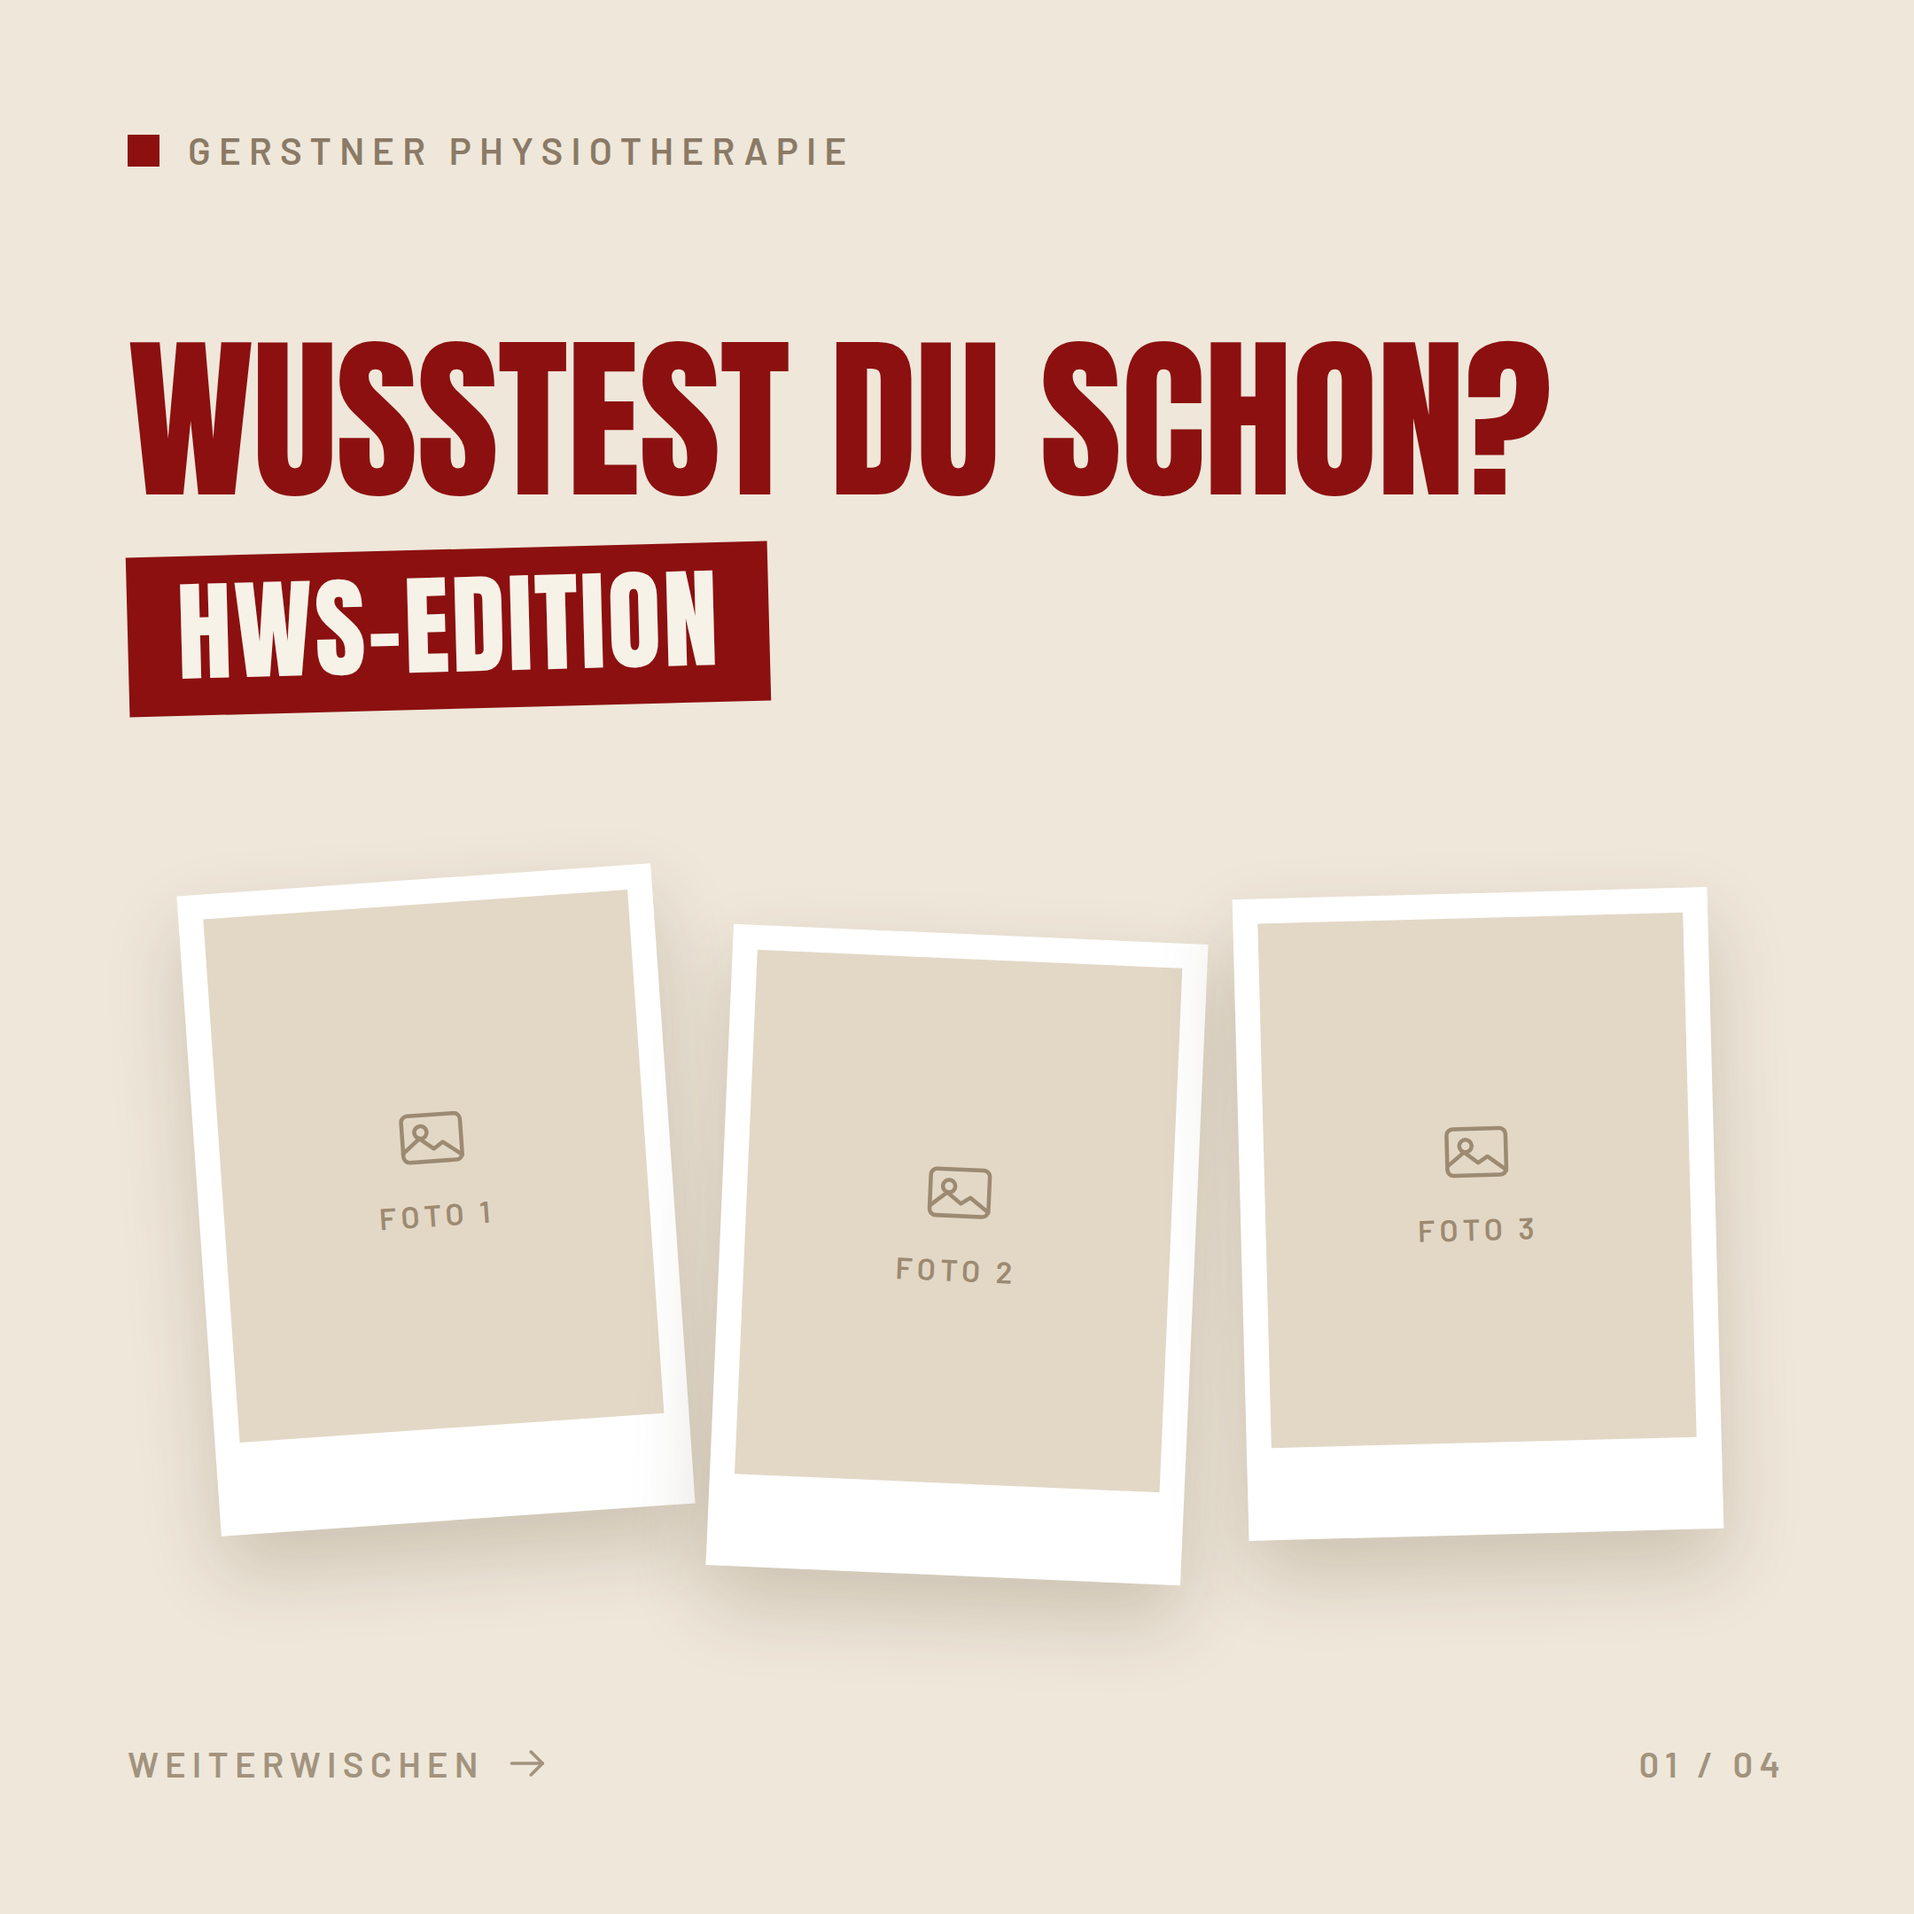
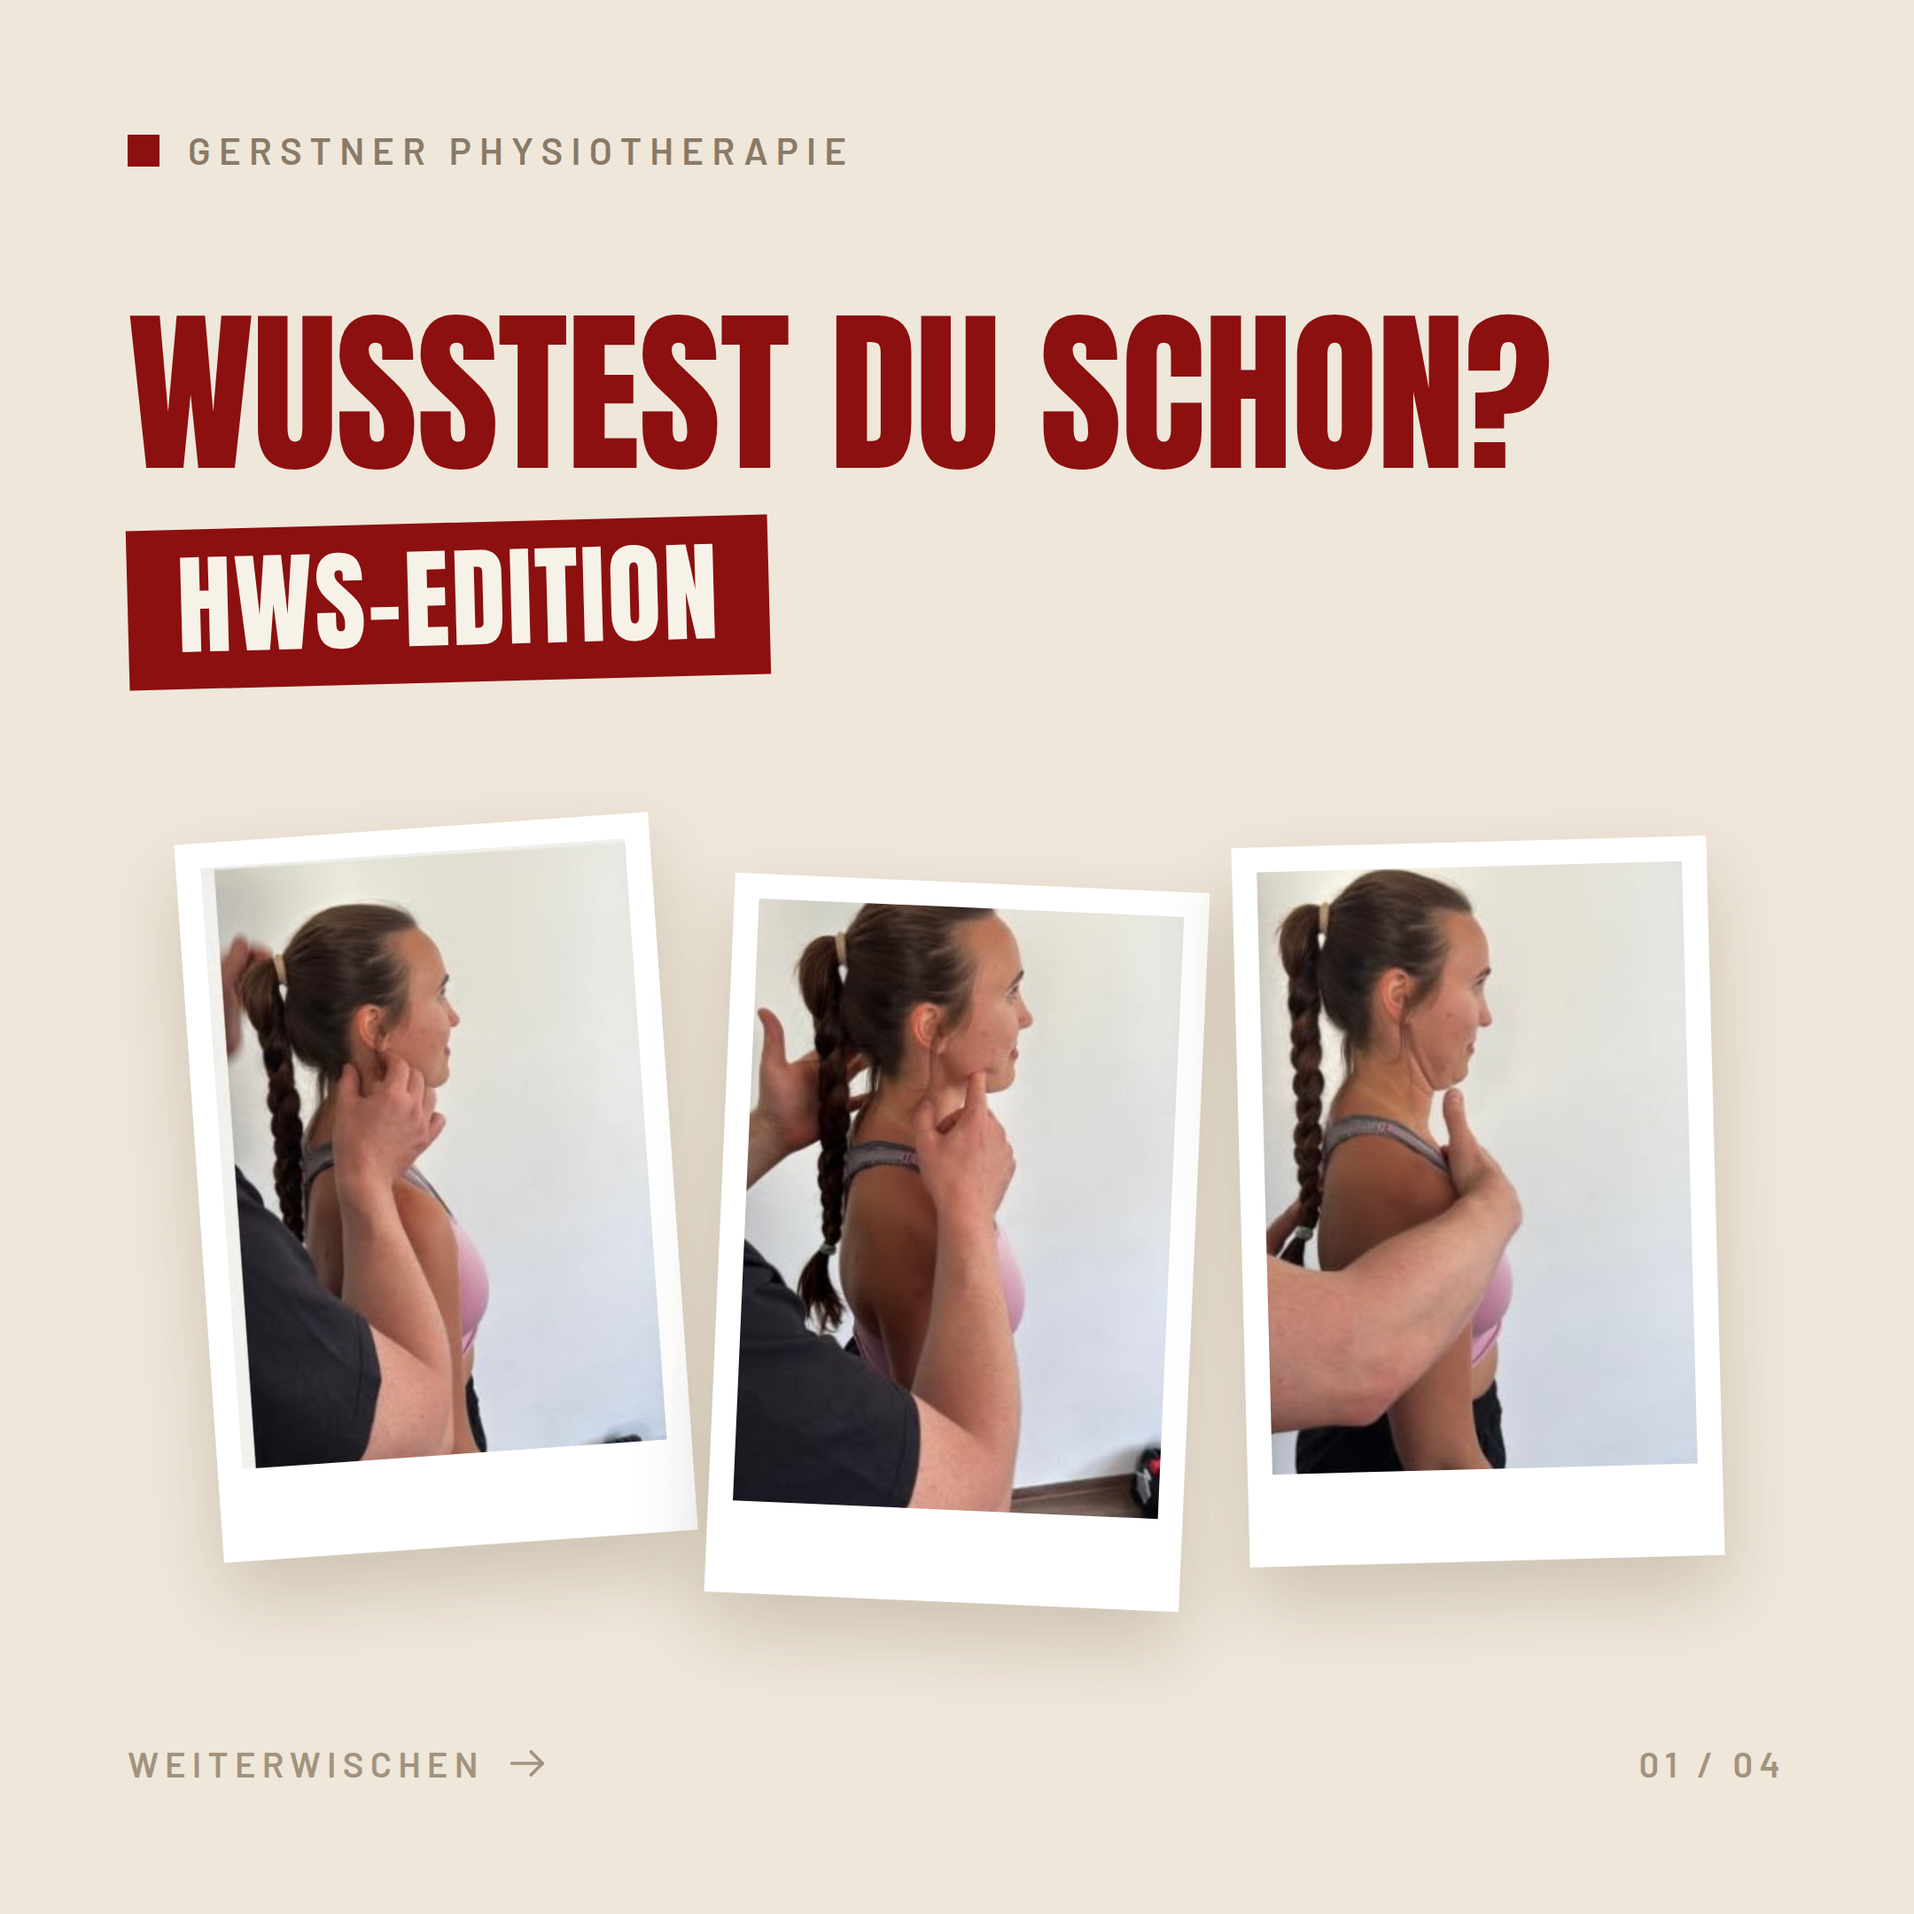
Originalfotos in Slide 1 einsetzen
Die drei Aufnahmen aus dem Ausgangs-Post freigestellt (Polaroid-Rahmen
per Hintergrundanalyse erkannt, weisser Rand abgezogen) und als
foto1-3.jpg in die Rahmen der Hook-Slide gesetzt. Bildflaeche auf
240x340 angepasst, damit das Seitenverhaeltnis der Aufnahmen passt.
render.mjs bettet referenzierte Bilder beim Export als Data-URI ein.

Claude-Session: https://claude.ai/code/session_01KEvYpgz3nzHCU27KvvNGg7

Changed region(s): [[0.0931, 0.4032, 0.8995, 0.8685], [0.062, 0.1551, 0.8065, 0.3722]]

diff --git a/social-media/hws-edition/Main.dc.html b/social-media/hws-edition/Main.dc.html
@@ -28,24 +28,15 @@
   <div style="display: flex; gap: 26px; justify-content: center; align-items: center;">
 
     <div style="background: #FFFFFF; padding: 14px 14px 52px; box-shadow: 0 20px 44px rgba(72, 48, 22, 0.20); transform: rotate(-4deg); margin-top: -28px;">
-      <div style="width: 240px; height: 296px; background: #E3D8C6; display: flex; flex-direction: column; align-items: center; justify-content: center; gap: 12px; color: #9C8A72;">
-        <svg width="42" height="42" viewBox="0 0 48 48" fill="none" stroke="currentColor" stroke-width="2.6" stroke-linecap="round" stroke-linejoin="round"><rect x="5" y="9" width="38" height="30" rx="4"></rect><circle cx="17" cy="20" r="4"></circle><path d="M5 33l11-9 9 7 6-4 12 9"></path></svg>
-        <div style="font-size: 17px; font-weight: 600; letter-spacing: 0.16em; text-transform: uppercase;">Foto 1</div>
-      </div>
+      <img src="foto1.jpg" alt="Untersuchung der Halswirbelsäule" style="width: 240px; height: 340px; object-fit: cover; object-position: center 42%; display: block;">
     </div>
 
     <div style="background: #FFFFFF; padding: 14px 14px 52px; box-shadow: 0 20px 44px rgba(72, 48, 22, 0.20); transform: rotate(2.5deg); margin-top: 34px;">
-      <div style="width: 240px; height: 296px; background: #E3D8C6; display: flex; flex-direction: column; align-items: center; justify-content: center; gap: 12px; color: #9C8A72;">
-        <svg width="42" height="42" viewBox="0 0 48 48" fill="none" stroke="currentColor" stroke-width="2.6" stroke-linecap="round" stroke-linejoin="round"><rect x="5" y="9" width="38" height="30" rx="4"></rect><circle cx="17" cy="20" r="4"></circle><path d="M5 33l11-9 9 7 6-4 12 9"></path></svg>
-        <div style="font-size: 17px; font-weight: 600; letter-spacing: 0.16em; text-transform: uppercase;">Foto 2</div>
-      </div>
+      <img src="foto2.jpg" alt="Untersuchung der Halswirbelsäule" style="width: 240px; height: 340px; object-fit: cover; object-position: center 42%; display: block;">
     </div>
 
     <div style="background: #FFFFFF; padding: 14px 14px 52px; box-shadow: 0 20px 44px rgba(72, 48, 22, 0.20); transform: rotate(-1.5deg); margin-top: -12px;">
-      <div style="width: 240px; height: 296px; background: #E3D8C6; display: flex; flex-direction: column; align-items: center; justify-content: center; gap: 12px; color: #9C8A72;">
-        <svg width="42" height="42" viewBox="0 0 48 48" fill="none" stroke="currentColor" stroke-width="2.6" stroke-linecap="round" stroke-linejoin="round"><rect x="5" y="9" width="38" height="30" rx="4"></rect><circle cx="17" cy="20" r="4"></circle><path d="M5 33l11-9 9 7 6-4 12 9"></path></svg>
-        <div style="font-size: 17px; font-weight: 600; letter-spacing: 0.16em; text-transform: uppercase;">Foto 3</div>
-      </div>
+      <img src="foto3.jpg" alt="Untersuchung der Halswirbelsäule" style="width: 240px; height: 340px; object-fit: cover; object-position: center 42%; display: block;">
     </div>
 
   </div>
